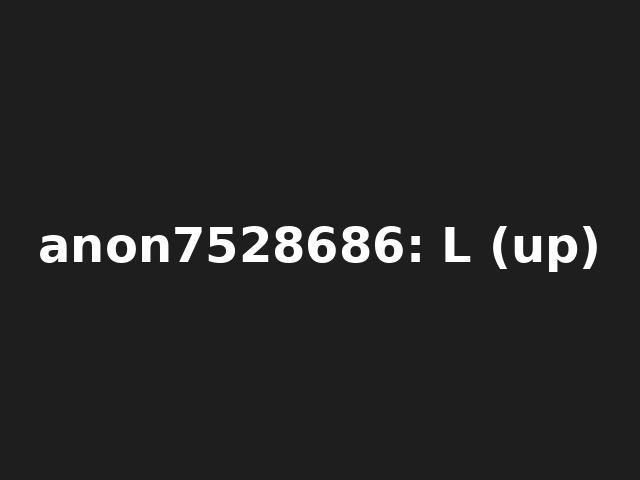
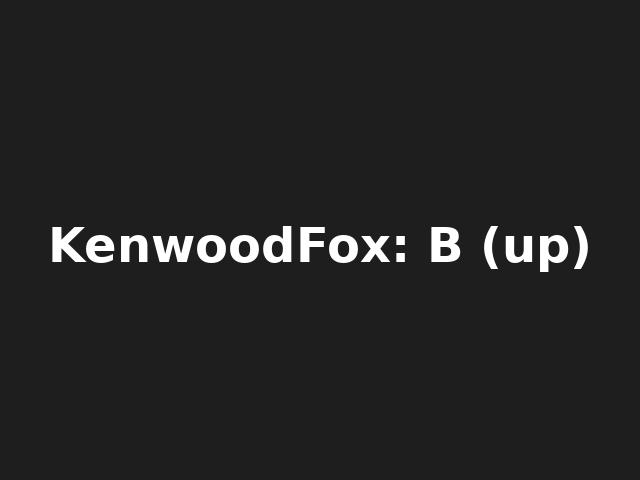
Overlay tweaks

Changed region(s): [[0.0625, 0.4688, 0.9375, 0.5938]]

diff --git a/rs_connector/streamer.py b/rs_connector/streamer.py
@@ -1,14 +1,19 @@
 import os
 import subprocess
 import logging
+import io
+from PIL import Image
 
 
 class Streamer:
-    def __init__(self, video_device, robot_id, stream_key, ffmpeg_opts=None):
+    def __init__(
+        self, video_device, robot_id, stream_key, ffmpeg_opts=None, overlay_path=None
+    ):
         self.video_device = video_device
         self.robot_id = robot_id
         self.stream_key = stream_key
         self.ffmpeg_opts = ffmpeg_opts or ""
+        self.overlay_path = overlay_path
         self.rtmp_url = (
             f"rtmp://rtmp.robotstreamer.com/live/{self.robot_id}?key={self.stream_key}"
         )
@@ -54,6 +59,12 @@ class Streamer:
         """
         import threading
         import time
+        import os
+
+        fifo_path = "/tmp/rs_connector_pipe"
+        # Create FIFO if it doesn't exist
+        if not os.path.exists(fifo_path):
+            os.mkfifo(fifo_path)
 
         vhost = video_endpoint["host"]
         vport = video_endpoint["port"]
@@ -65,21 +76,21 @@ class Streamer:
         else:
             audio_url = video_url  # fallback
 
-        if self.video_device.startswith("/dev/video"):
-            video_input = f"-f v4l2 -framerate {framerate} -video_size {xres}x{yres} -r {framerate} -i {self.video_device} {rotation_option}"
-        else:
-            video_input = f"-loop 1 -framerate {framerate} -video_size {xres}x{yres} -i {self.video_device}"
-        audio_input = f"-f lavfi -ac {audio_channels} -i anullsrc=channel_layout=mono:sample_rate={audio_sample_rate}"
-
-        # Use -map to send video to video_url and audio to audio_url
-        cmd = (
-            f"ffmpeg {video_input} {audio_input} "
-            f"-map 0:v -c:v mpeg1video -b:v {kbps}k -bf 0 -muxdelay 0.001 -f mpegts {video_url} "
-            f"-map 1:a -c:a mp2 -b:a {audio_kbps}k -muxdelay 0.01 -f mpegts {audio_url}"
+        ffmpeg_cmd = (
+            f"ffmpeg -f image2pipe -vcodec png -framerate {framerate} -i {fifo_path} "
+            f"-c:v mpeg1video -b:v {kbps}k -bf 0 -muxdelay 0.001 -f mpegts {video_url} "
+            f"-f lavfi -ac {audio_channels} -i anullsrc=channel_layout=mono:sample_rate={audio_sample_rate} "
+            f"-map 0:v -map 1:a -c:a mp2 -b:a {audio_kbps}k -muxdelay 0.01 -f mpegts {audio_url}"
         )
-        self.logger.info(f"Starting ffmpeg (jsmpeg video+audio): {cmd}")
+        self.logger.info(
+            f"Starting ffmpeg (jsmpeg video+audio, overlay via FIFO): {ffmpeg_cmd}"
+        )
         proc = subprocess.Popen(
-            cmd, shell=True, stdout=subprocess.PIPE, stderr=subprocess.STDOUT, text=True
+            ffmpeg_cmd,
+            shell=True,
+            stdout=subprocess.PIPE,
+            stderr=subprocess.STDOUT,
+            text=True,
         )
 
         def log_ffmpeg_output():
@@ -91,10 +102,60 @@ class Streamer:
                     pass
 
         threading.Thread(target=log_ffmpeg_output, daemon=True).start()
+
+        def overlay_writer():
+            blank_overlay = None
+            while True:
+                try:
+                    # Get base frame
+                    if self.video_device.startswith("/dev/video"):
+                        import cv2
+
+                        cap = cv2.VideoCapture(self.video_device)
+                        ret, frame = cap.read()
+                        cap.release()
+                        if not ret:
+                            self.logger.error(
+                                "Failed to capture frame from camera for overlay."
+                            )
+                            time.sleep(2)
+                            continue
+                        base = Image.fromarray(cv2.cvtColor(frame, cv2.COLOR_BGR2RGBA))
+                    else:
+                        base = Image.open(self.video_device).convert("RGBA")
+                    # Overlay if present, else blank
+                    overlay_img = None
+                    if self.overlay_path and os.path.exists(self.overlay_path):
+                        try:
+                            overlay_img = Image.open(self.overlay_path).convert("RGBA")
+                        except Exception as e:
+                            self.logger.error(f"Failed to load overlay PNG: {e}")
+                    if overlay_img is None:
+                        if blank_overlay is None or blank_overlay.size != base.size:
+                            blank_overlay = Image.new("RGBA", base.size, (0, 0, 0, 0))
+                        overlay_img = blank_overlay
+                    base.alpha_composite(overlay_img)
+                    # Write composited frame to FIFO as PNG
+                    buf = io.BytesIO()
+                    base.save(buf, format="PNG")
+                    with open(fifo_path, "wb") as pipe:
+                        pipe.write(buf.getvalue())
+                        pipe.flush()
+                except BrokenPipeError:
+                    self.logger.error(
+                        "Broken pipe: ffmpeg process exited, overlay writer stopping."
+                    )
+                    break
+                except Exception as e:
+                    self.logger.error(f"Overlay writer error: {e}")
+                    break
+                time.sleep(2.0)
+
+        threading.Thread(target=overlay_writer, daemon=True).start()
+
         self.video_proc = proc
         self.audio_proc = proc
 
-        # Monitor just this one process
         def monitor():
             while True:
                 ret = proc.poll()
@@ -105,7 +166,6 @@ class Streamer:
                     proc.terminate()
                     proc.wait()
                     time.sleep(2)
-                    # Restart
                     self.start_jsmpeg_stream(
                         video_endpoint,
                         xres=xres,

diff --git a/reflector/reflector.py b/reflector/reflector.py
@@ -6,19 +6,19 @@ import os
 
 # Config
 RS_CONNECTOR_WS = os.environ.get("RS_CONNECTOR_WS", "ws://172.17.0.3:8765")
-OUTPUT_IMAGE = os.environ.get("REFLECTOR_IMAGE", "reflector_output.jpg")
+OUTPUT_IMAGE = os.environ.get("REFLECTOR_IMAGE", "overlay.png")
 FONT_PATH = os.environ.get(
     "REFLECTOR_FONT", "/usr/share/fonts/truetype/dejavu/DejaVuSans-Bold.ttf"
 )
 IMG_SIZE = (640, 480)
-BG_COLOR = (30, 30, 30)
+BG_COLOR = (0, 0, 0, 0)
 TEXT_COLOR = (255, 255, 255)
 
 last_button = "None"
 
 
 def update_image(text):
-    img = Image.new("RGB", IMG_SIZE, BG_COLOR)
+    img = Image.new("RGBA", IMG_SIZE, BG_COLOR)
     draw = ImageDraw.Draw(img)
     try:
         font = ImageFont.truetype(FONT_PATH, 48)

diff --git a/rs_connector/main.py b/rs_connector/main.py
@@ -28,6 +28,7 @@ def main():
     yres = int(os.environ.get("VIDEO_YRES", 432))
     framerate = int(os.environ.get("VIDEO_FRAMERATE", 25))
     kbps = int(os.environ.get("VIDEO_KBPS", 700))
+    overlay_path = os.environ.get("OVERLAY_PATH")
 
     # Validate environment variables
     if not robot_id:
@@ -38,7 +39,9 @@ def main():
         return
 
     # Initialize streamer and API client
-    streamer = Streamer(video_device, robot_id, stream_key, ffmpeg_opts)
+    streamer = Streamer(
+        video_device, robot_id, stream_key, ffmpeg_opts, overlay_path=overlay_path
+    )
     api_client = APIClient(robot_id, camera_id, stream_key, api_url)
 
     max_restarts = 5
